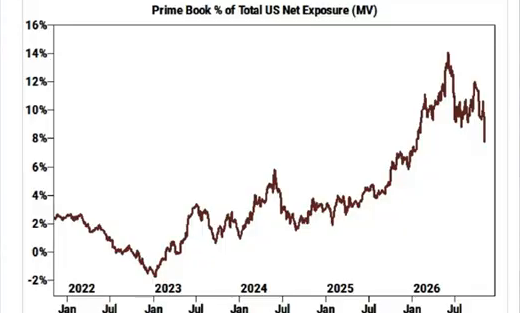
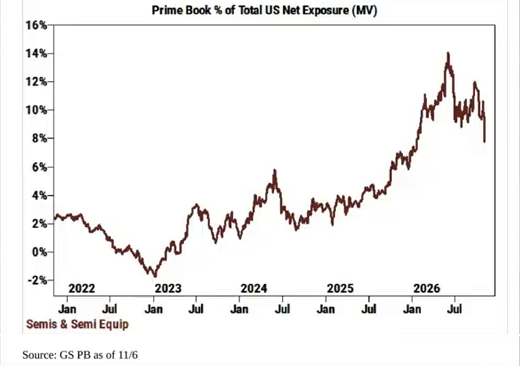
Fix Flow Show semis crop, single as-of, and #flow-show hash jump
Restore the full 520×366 semis crop (source + Semis label + Jan/Jul), white-fill the magnifier on plain background only, show Nov 6 once on the tile, and run the hash jump/watchSections after Flow Show load with sticky-height scroll-margin.

diff --git a/src/charts.js b/src/charts.js
@@ -766,8 +766,19 @@ buildCredit();
 buildFundManagers();
 buildRisk();
 paint();
-mountFlowShow();
 
-const target = location.hash && document.getElementById(decodeURIComponent(location.hash.slice(1)));
-if (target) target.scrollIntoView({ behavior: "instant", block: "start" });
-watchSections();
+function jumpToHash() {
+  const target = location.hash && document.getElementById(decodeURIComponent(location.hash.slice(1)));
+  if (!target) return;
+  const header = document.querySelector(".topbar");
+  // Match the sticky topbar height so the section clears chrome and still wins watchSections
+  // (spy line is header.bottom + 24). Fallback keeps #flow-show above Risk appetite on load.
+  const margin = Math.ceil((header?.getBoundingClientRect().height ?? 160) + 8);
+  target.style.scrollMarginTop = `${margin}px`;
+  target.scrollIntoView({ behavior: "instant", block: "start" });
+}
+
+mountFlowShow().finally(() => {
+  jumpToHash();
+  watchSections();
+});

diff --git a/src/styles.css b/src/styles.css
@@ -7154,12 +7154,19 @@ a.nt-row:hover .nt-arrow { background: var(--ink); color: var(--p-on-ink); }
 .flow-show {
   margin-top: 48px;
   padding-top: 8px;
-  /* Clear the sticky topbar + charts secnav (~132px) with room so #flow-show is not low. */
-  scroll-margin-top: 160px;
+  /* Fallback; charts.js sets an inline scroll-margin from the live sticky topbar height. */
+  scroll-margin-top: 132px;
 }
 #flow-show,
 #flow-show-title {
-  scroll-margin-top: 160px;
+  scroll-margin-top: 132px;
+}
+@media (max-width: 720px) {
+  .flow-show,
+  #flow-show,
+  #flow-show-title {
+    scroll-margin-top: 220px;
+  }
 }
 
 .flow-show-head { margin-bottom: 8px; }
@@ -7239,11 +7246,6 @@ a.nt-row:hover .nt-arrow { background: var(--ink); color: var(--p-on-ink); }
   font-weight: 650;
   letter-spacing: -0.015em;
   color: var(--p-ink);
-}
-
-.flow-show-asof {
-  font-size: 12px;
-  color: var(--p-meta);
 }
 
 .flow-show-status {

diff --git a/src/flow-show.js b/src/flow-show.js
@@ -39,7 +39,6 @@ function card(chart) {
   figure.append(img);
   const caption = el("figcaption", "flow-show-cap");
   caption.append(el("strong", "flow-show-title", chart.caption));
-  if (chart.asOfLabel) caption.append(el("span", "flow-show-asof", chart.asOfLabel));
   figure.append(caption);
   article.append(top, figure);
   return article;
